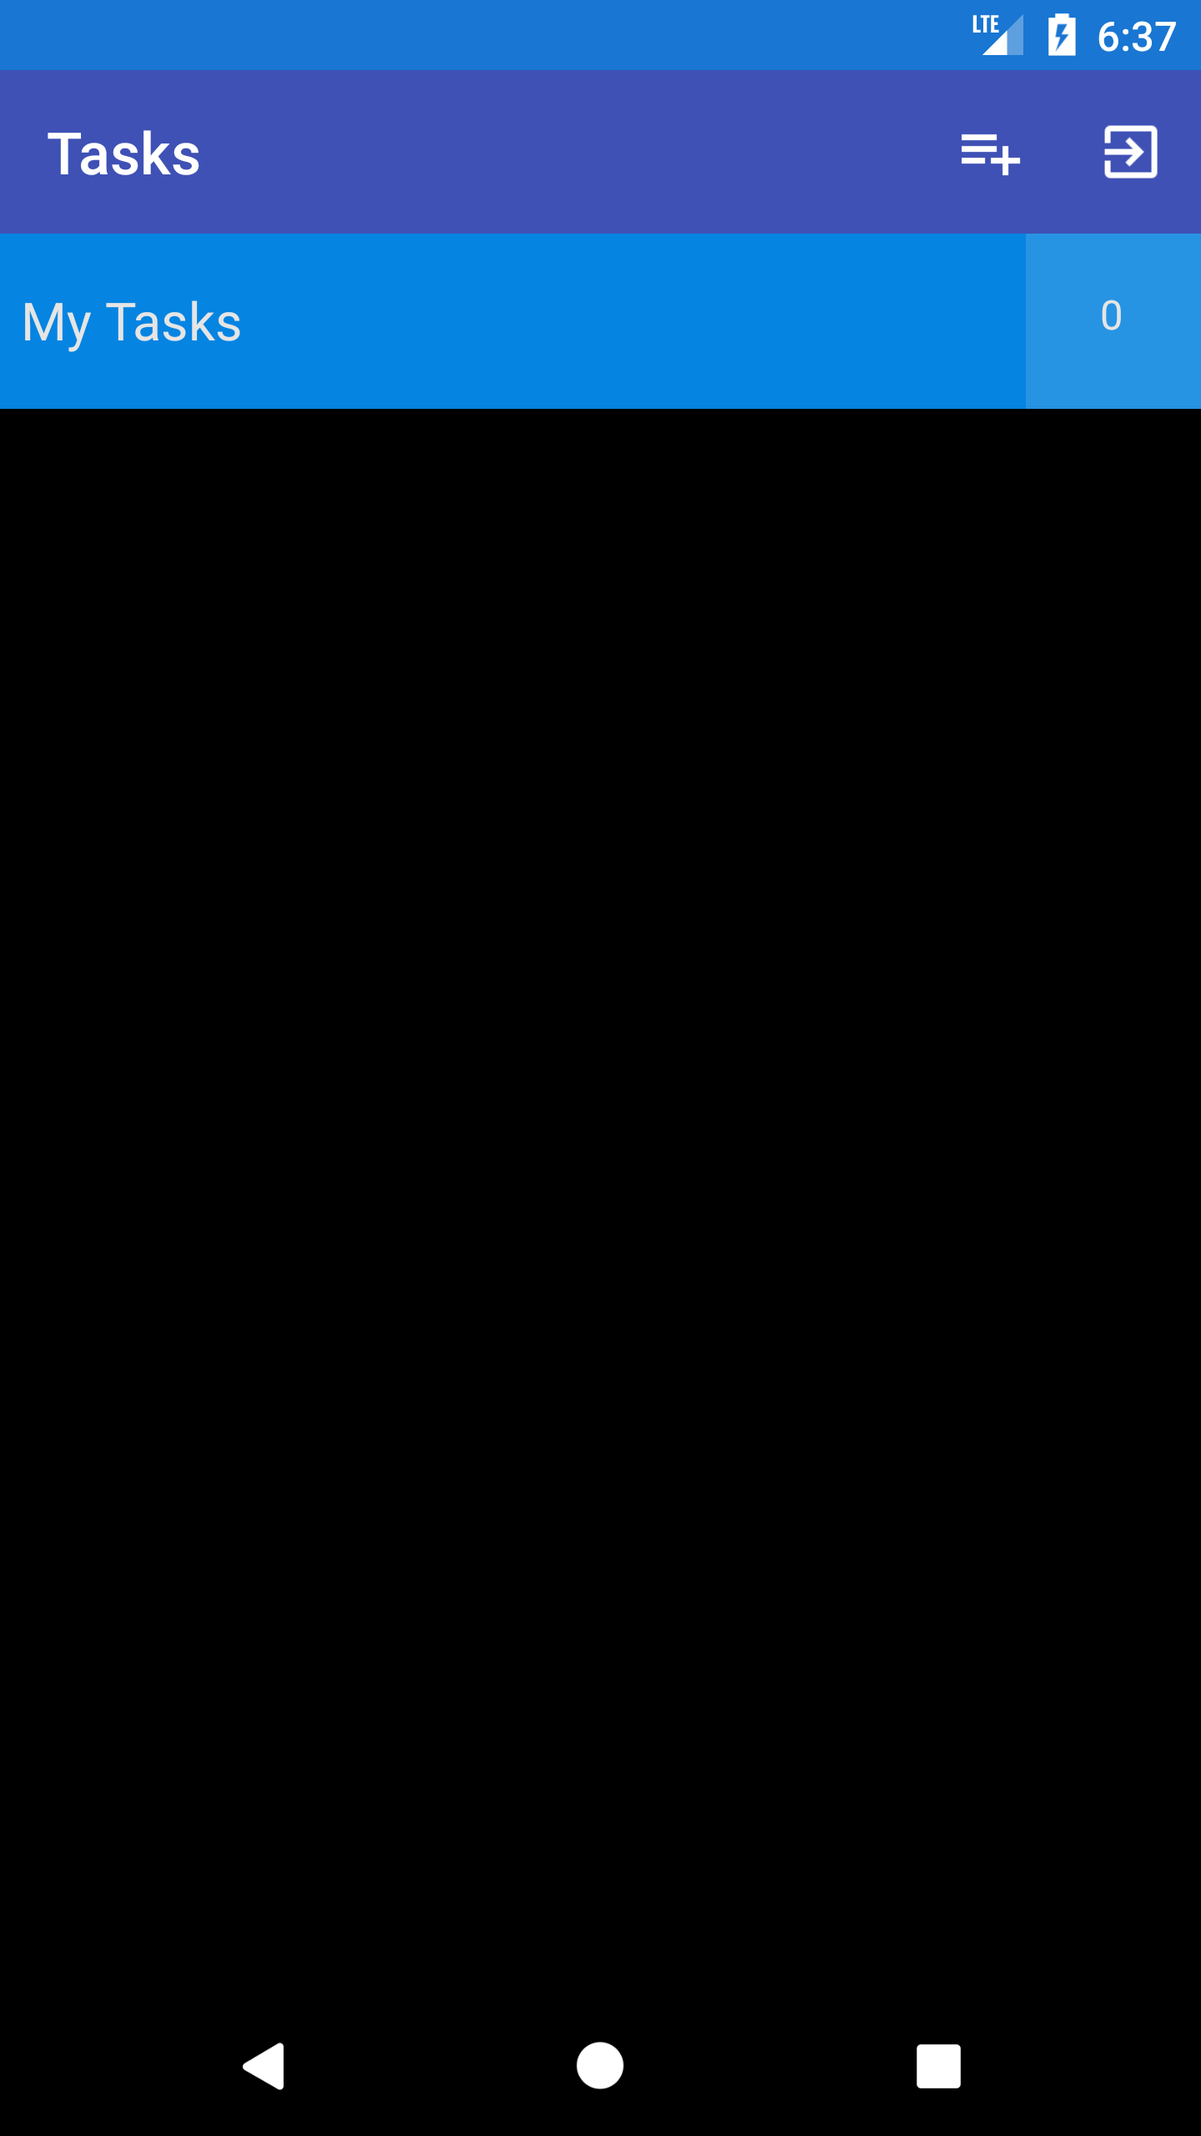
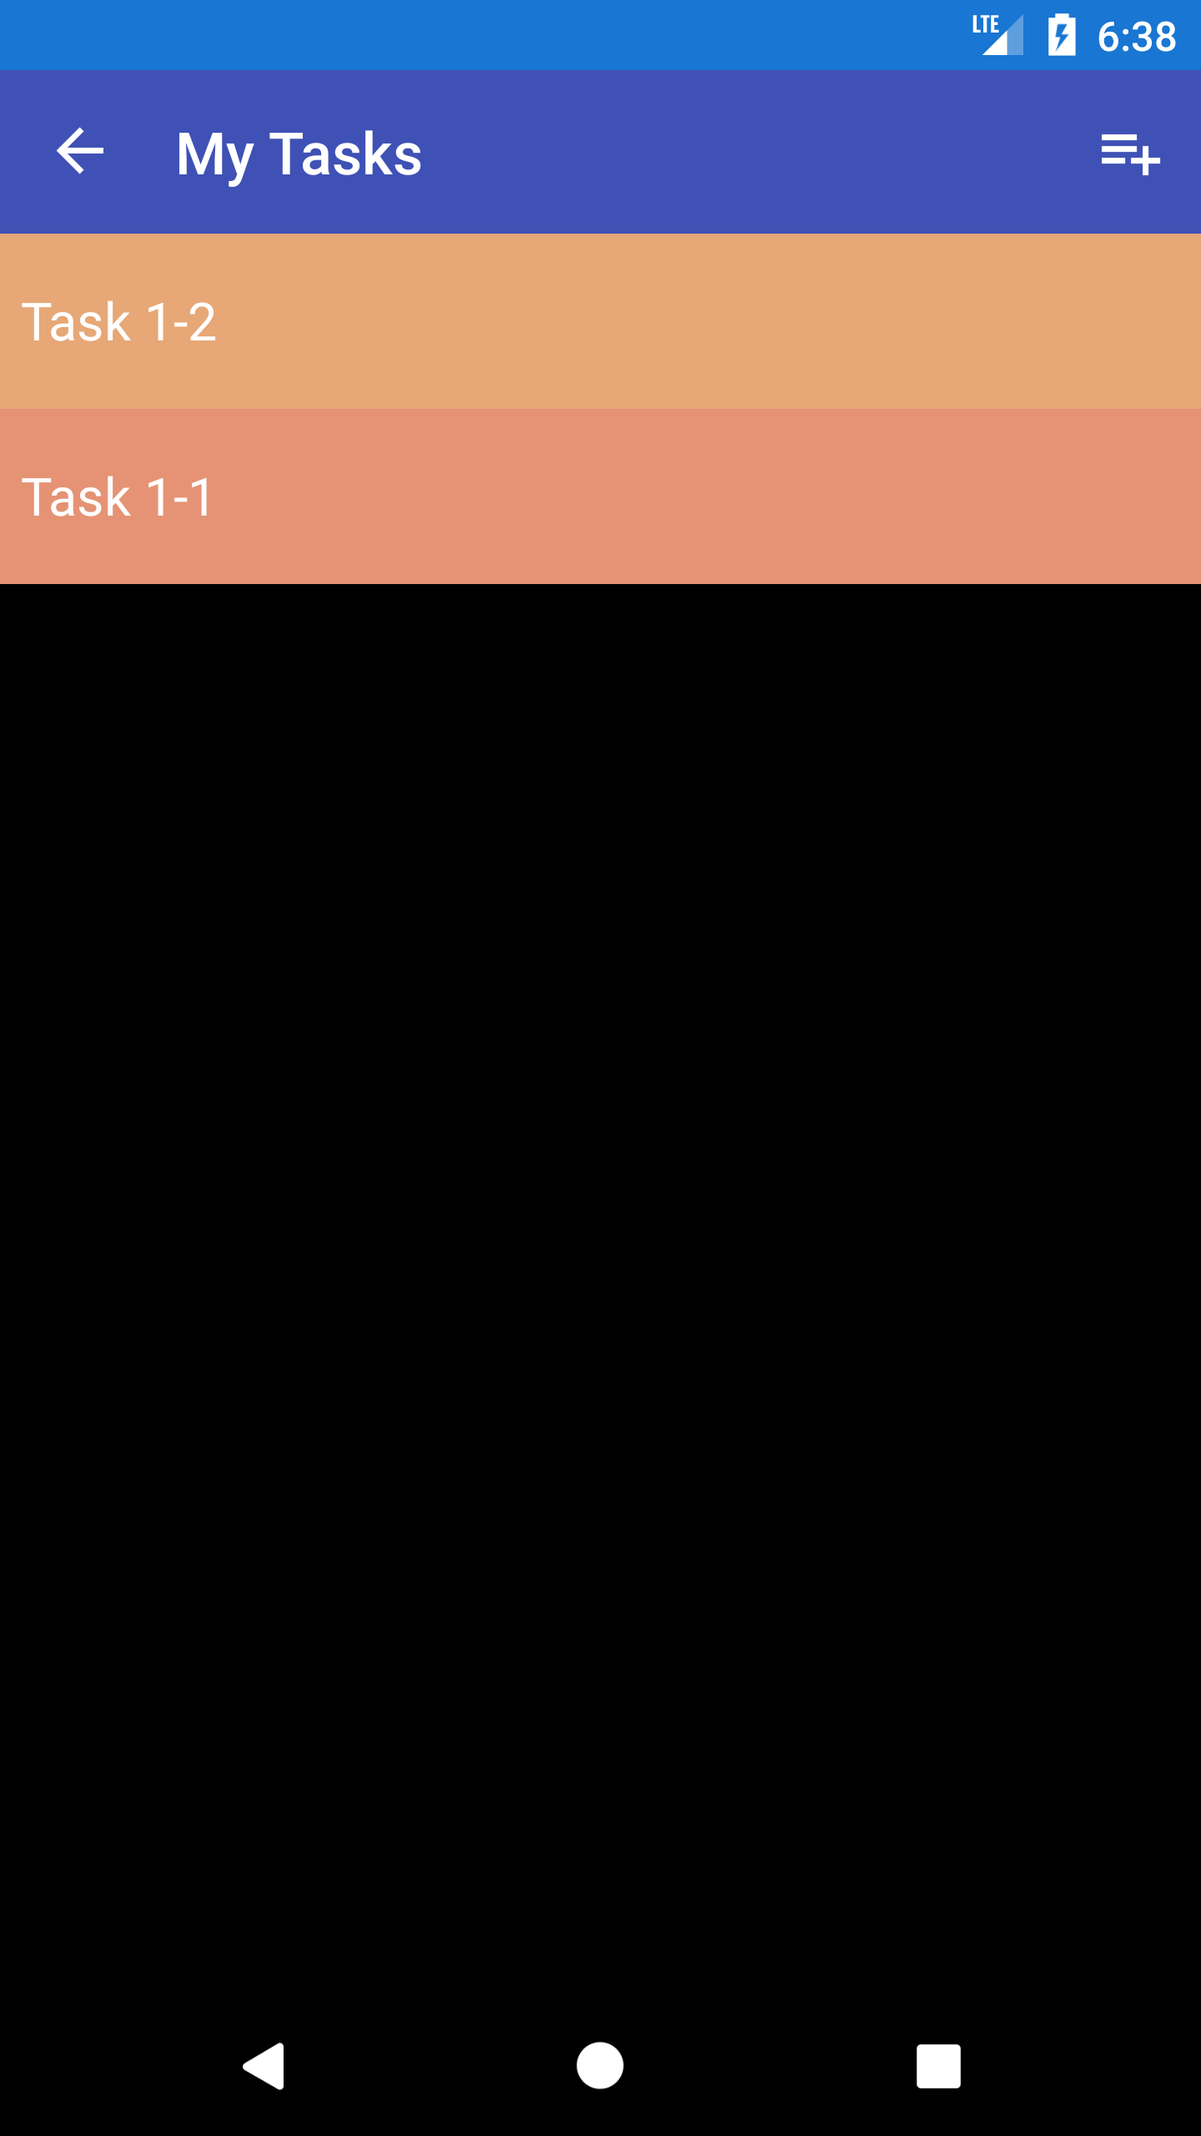
Update document and image

Changed region(s): [[0.0, 0.0625, 1.0, 0.2812]]

diff --git a/RealmTutorialSample/RealmTutorialSample/RealmTutorialSamplePage.xaml.cs b/RealmTutorialSample/RealmTutorialSample/RealmTutorialSamplePage.xaml.cs
@@ -105,9 +105,9 @@ namespace RealmTutorialSample
 
         private async void SetupRealmAsync()
         {
-            var username = ""; // 作成したユーザーを指定します。
-            var password = ""; // パスワード
-            var serverIp = "127.0.0.1:9080";
+            var username = "realm"; // 作成したユーザーを指定します。
+            var password = "realm"; // パスワード
+            var serverIp = (Device.RuntimePlatform == Device.Android) ? "10.0.2.2:9080" : "127.0.0.1:9080";
 
             User user = null;
             try

diff --git a/TutorialXamarin.md b/TutorialXamarin.md
@@ -1,107 +1,116 @@
-## Tutorial：Realm Mobile Platform にアクセスするアプリを Xamarin.Forms で作ろう
+## Tutorial：Realm Platform にアクセスするアプリを Xamarin.Forms で作ろう
 
-タスク管理の iOS アプリを作成する Realm Mobile Platform（レルム・モバイル・プラットフォーム） のチュートリアル「[Realm Mobile Platform iOS App Tutorial](https://realm.io/docs/tutorials/realmtasks/)」を Swift ではなく、C# で作ってみましょう。フレームワークには Xamarin.Forms を使用します。
+タスク管理の iOS アプリを作成する Realm Platform（レルム・モバイル・プラットフォーム） のチュートリアル「[Building Your First Realm Platform iOS App](https://realm.io/docs/tutorials/realmtasks/)」を Swift ではなく、C# で作ってみましょう。フレームワークには Xamarin.Forms を使用します。
 
-### Realm Mobile Platform とは
+### Realm Platform とは
 
-Realm Mobile Platform はローカルの Realm Mobile Database（通称 Realm）とサーバーサイドの Realm Object Server（レルム・オブジェクト・サーバー）を自動的に同期する仕組みを提供するサービスです。
+Realm Platform はローカルの Realm Mobile Database（通称 Realm）とサーバーサイドの Realm Object Server（レルム・オブジェクト・サーバー）を自動的に同期する仕組みを提供するサービスです。
 
 詳細は、[公式ページ](https://realm.io/jp/products/realm-mobile-platform/) をご覧ください。
 
-Realm Mobile Platform には Developer Edition があり、無料でオフラインファーストで自動同期の機能を備えたモバイルアプリを構築できます。有償の Professional Edition 以上では、サーバーサイドロジックを Node.js で構築したり、無制限の Realm Functions（いわゆる Azure Functions／AWS Lambda と同じような機能）が使えたりします。
+Realm Platform には Developer Edition があり、無料でオフラインファーストで自動同期の機能を備えたモバイルアプリを構築できます。有償の Professional Edition 以上では、サーバーサイドロジックを Node.js で構築したり、無制限の Realm Functions（いわゆる Azure Functions／AWS Lambda と同じような機能）が使えたりします。
 
-### Realm Mobile Platform のインストール
+### Realm Platform のインストール
 
-公式ドキュメントの [Getting Started with the Realm Mobile Platform](https://realm.io/docs/get-started/) を参照してください。
+公式ドキュメントの [Installing the Realm Platform](https://realm.io/docs/get-started/) を参照してください。
 
-macOS 用には、Realm Object Server が用意されていて[こちら](https://realm.io/docs/get-started/installation/mac/)からダウンロードできます。ダウンロード後、圧縮ファイルを任意の場所に展開し、コマンドを実行するだけで動作します。非常に簡単に導入できるため、macOS 版を使用することをお勧めします。
+本チュートリアルは macOS でのインストールを進めますが、Linux がある方は Linux にインストールしてアクセスしても良いでしょう。また、Windows 版は開発中のようです。期待しましょう。
 
-Linux がある方は Linux にインストールしてアクセスしても良いですし、docker で立てても良いかもしれないですね。
+> こっそり私の Azure 環境にハンズオンで Realm Object Server の環境が作れない方に使ってもらうためのインスタンスを用意しています。
 
-> こっそり私の Azure 環境にハンズオンで Realm Object Server の環境が作れない方に使ってもらうためのインスタンスと Docker コンテナはすでに立ててありますのでない方は仰ってください。
+Realm Object Server の展開が終了したら、任意のディレクトリで `ros start` コマンドを実行します。そのディレクトリ以下に Realm Object Server のインスタンスが立ち上がり、9080 番ポートのリスニングが開始されます。 
 
-### 事前準備
+```bash
+$ ros start
 
-事前準備として、Realm Object Server を起動し、データを登録する必要があります。
+info: Loaded feature token capabilities=[Sync], expires=Wed Apr 19 2017 23:15:29 GMT+0900 (JST)
+info: Realm Object Server version 2.0.16 is starting
+info: [sync] Realm sync server started ([realm-core-4.0.2], [realm-sync-2.1.0])
+info: [sync] Directory holding persistent state: /Users/ytabuchi/Documents/realm/ros/data/sync/user_data
+info: [sync] Operating mode: master_with_no_slave
+info: [sync] Listening on 127.0.0.1:59551 (sync protocol version 22)
+info: [http] 127.0.0.1 - GET /realms/files/%2F__wildcardpermissions HTTP/1.1 200 55 - 23.666 ms
+info: [http] 127.0.0.1 - GET /realms/files/%2F__password HTTP/1.1 200 44 - 12.780 ms
+info: Realm Object Server has started and is listening on http://0.0.0.0:9080
+info: [http] 127.0.0.1 - GET /realms/files/%2F__admin HTTP/1.1 200 41 - 1.474 ms
+info: [http] 127.0.0.1 - GET /realms/files/%2F__admin HTTP/1.1 200 41 - 2.113 ms
+```
 
-Realm Object Server の展開が終了したら、ルートディレクトリの `start-object-server.command` を実行します。
+初回起動時にメールアドレスを入力し、メールニュースに登録するか？を聞かれますので、YES を推しておきましょう。
 
-<img src="https://raw.githubusercontent.com/ytabuchi/RealmMobilePlatform/master/images/Realm0-01.png" width="600" />
+Realm Object Server の起動を確認したら次に進みます。
 
-ブラウザが起動し、ログイン画面が表示されます。Linux の場合はインストール時にサービス登録をしているので、`＜IPアドレス＞:9080` にアクセスします。
+### Realm Studio のインストール
 
-<img src="https://raw.githubusercontent.com/ytabuchi/RealmMobilePlatform/master/images/Realm0-02.png" width="600" />
+Realm Object Server 2.x から Node.js を使用したプロダクトに刷新され、Web のインターフェースは無くなりました。代わりに、以下の Realm Studio を使用します。Electron ベースのアプリで、Windows、macOS、Linux に対応しています。
 
-任意のメールアドレスとパスワードで Admin User を作成します。この時のユーザー名とパスワードを後で使用しますので、メモしておきましょう。ログインすると Dashboard や存在する Realm Database、User などが閲覧できます。
+[Realm Studio: open, edit, and manage your Realm data](https://realm.io/jp/products/realm-studio/)
 
-<img src="https://raw.githubusercontent.com/ytabuchi/RealmMobilePlatform/master/images/Realm0-03.png" width="600" />
+ダウンロード後、インストールして Realm Studio を起動します。
 
-Realm Object Server の起動を確認したらデータを登録します。
+<img src="https://raw.githubusercontent.com/ytabuchi/RealmMobilePlatform/master/images/Realm0-01.png" width="300" />
 
-#### macOS の場合
+「Connect to Realm Object Server」をクリックし、そのまま「Connect」をクリックします。
 
-`＜ルートディレクトリ＞/demo/RealmTasks/RealmTasks.app` を起動します。
+<img src="https://raw.githubusercontent.com/ytabuchi/RealmMobilePlatform/master/images/Realm0-02.png" width="300" />
+
+「Users」タブを開き、「Create new user」ボタンをクリックし、
+
+<img src="https://raw.githubusercontent.com/ytabuchi/RealmMobilePlatform/master/images/Realm0-03.png" width="450" />
+
+任意のユーザーを作成します。
 
 <img src="https://raw.githubusercontent.com/ytabuchi/RealmMobilePlatform/master/images/Realm0-04.png" width="450" />
 
-
-先ほど作成したユーザーでログインします。ログイン後、右上の「＋」ボタンからタスクを登録します。
+ユーザーが作成されていることを確認してください。
 
 <img src="https://raw.githubusercontent.com/ytabuchi/RealmMobilePlatform/master/images/Realm0-05.png" width="450" />
 
-事前準備は以上です。
+ユーザーが作成できたら次に進みます。
 
-#### Windows の場合
+### 事前準備
 
-Windows の場合は事前にビルドされたアプリが存在しないため、自前でビルドする必要があります。そのため、macOS と同じく[こちら](https://realm.io/docs/get-started/installation/mac/)から macOS Bundle をダウンロードします。ダウンロードした zip ファイルを「右クリック＞プロパティ」を選択し、「ブロックの解除」にチェックして「OK」をクリックします。
+本チュートリアルのアプリが Realm Object Server にアクセスするために、データが格納されている必要があります。そのため、最初にサンプルアプリのソースコードをダウンロードします。
+
+[realm-demos/realm-tasks: To Do app built with Realm, inspired by Clear for iOS](https://github.com/realm-demos/realm-tasks) にアクセスし、右側の「Clone or Download＞Download Zip」をクリックします。
+
+<img src="https://raw.githubusercontent.com/ytabuchi/RealmMobilePlatform/master/images/Realm0-06.png" width="600" />
+
+Windows の場合はダウンロードした zip ファイルを「右クリック＞プロパティ」を選択し、「ブロックの解除」にチェックして「OK」をクリックします。
+
+zip ファイルを展開し、`RealmTasks Xamarin` フォルダ内の `RealmTasks.sln` をダブルクリックして Visual Studio for Mac／Visual Studio を起動します。
+
+Windows の場合はソリューションを右クリックして、「NuGet パッケージの復元」を行います。
+
+<img src="https://raw.githubusercontent.com/ytabuchi/RealmMobilePlatform/master/images/Realm0-07.png" width="300" />
+
+
+「RealmTask.Droid」プロジェクトを右クリックして、「スタートアッププロジェクトに設定」を選択します。macOS の場合は「RealmTask.iOS」でも構いません。
 
 <img src="https://raw.githubusercontent.com/ytabuchi/RealmMobilePlatform/master/images/Realm0-08.png" width="300" />
-
-
-zip ファイル内の`demo\RealmTasks\RealmTasks Xamarin` フォルダを展開します。
-
-展開されたフォルダ内の `RealmTasks.sln` をダブルクリックして Visual Studio を起動します。
-
-ソリューションを右クリックして、「NuGet パッケージの復元」を行います。
-
+<br />
 <img src="https://raw.githubusercontent.com/ytabuchi/RealmMobilePlatform/master/images/Realm0-09.png" width="300" />
-
-
-「RealmTask.Droid」プロジェクトを右クリックして、「スタートアッププロジェクトに設定」を選択します。
-
-<img src="https://raw.githubusercontent.com/ytabuchi/RealmMobilePlatform/master/images/Realm0-10.png" width="300" />
 
 
 > エミュレーターへの配置がオンになっていない可能性がありますので、Visual Studio のメニューから「ビルド＞構成マネージャー」から構成マネージャーを開き、Android プロジェクトの「配置」にチェックを入れてください。
 
-<img src="https://raw.githubusercontent.com/ytabuchi/RealmMobilePlatform/master/images/Realm0-11.png" width="450" />
+<img src="https://raw.githubusercontent.com/ytabuchi/RealmMobilePlatform/master/images/Realm0-10.png" width="450" />
 
 適切なエミュレーターまたはデバイスを選択し、「▶」ボタンでデバッグを開始します。
 
 アプリが起動したら適切な IP アドレスとポート番号に変更し、ユーザー名、パスワードでログインします。
 
-<img src="https://raw.githubusercontent.com/ytabuchi/RealmMobilePlatform/master/images/Realm0-12.png" width="300" />
+<img src="https://raw.githubusercontent.com/ytabuchi/RealmMobilePlatform/master/images/Realm0-11.png" width="300" />
 
 ログイン後、「My Tasks」の右側の数字の「0」をタップします。
 
-<img src="https://raw.githubusercontent.com/ytabuchi/RealmMobilePlatform/master/images/Realm0-13.png" width="300" />
+<img src="https://raw.githubusercontent.com/ytabuchi/RealmMobilePlatform/master/images/Realm0-12.png" width="300" />
 
 Task 入力欄で右上の＋ボタンからタスクをいくつか入力します。
 
-<img src="https://raw.githubusercontent.com/ytabuchi/RealmMobilePlatform/master/images/Realm0-14.png" width="300" />
+<img src="https://raw.githubusercontent.com/ytabuchi/RealmMobilePlatform/master/images/Realm0-13.png" width="300" />
 
-Windows 側の事前準備作業は少し長いですが以上です。
-
-#### データ作成後
-
-ブラウザの Realm タブを開き、Path 欄の `xxxxxx/realmtasks` をクリックします。
-
-<img src="https://raw.githubusercontent.com/ytabuchi/RealmMobilePlatform/master/images/Realm0-06.png" width="600" />
-
-事前準備で登録したタスクが正しく反映されていることが分かります。
-
-<img src="https://raw.githubusercontent.com/ytabuchi/RealmMobilePlatform/master/images/Realm0-07.png" width="600" />
-
+事前準備作業は少し長いですが以上です。
 
 ### Xamarin.Forms プロジェクトを作成
 
@@ -140,7 +149,7 @@ NuGet パッケージをインストールします。
 
 macOS では、iOS／Android のプロジェクトを右クリックして、「追加＞NuGet パッケージの追加」でパッケージマネージャーを起動します。Windows ではソリューションを右クリックして、「ソリューションの NuGet パッケージの管理」でパッケージマネージャーを起動します。
 
-「Realm」で検索して、最新版の「Realm」（2017/09/28 時点では 1.6.0）をインストールします。
+「Realm」で検索して、最新版の「Realm」（2017/11/13 時点では 2.0.0）をインストールします。
 
 <img src="https://raw.githubusercontent.com/ytabuchi/RealmMobilePlatform/master/images/Realm2-01.png" width="450" />
 
@@ -371,7 +380,7 @@ namespace RealmTutorialSample.iOS
 }
 ```
 
-AddAsync ボタンが押された時に return を返したかったので、[@amay077](https://twitter.com/amay077) さんの [UIAlertController を async/await 対応させて便利に使う \- Qiita](http://qiita.com/amay077/items/0a3fa3dfac7f29a2807d) を参考にしました。
+AddAsync ボタンが押された時に return を返したかったので、[@amay077](https://twitter.com/amay077) さんの [UIAlertController を async/await 対応させて便利に使う - Qiita](http://qiita.com/amay077/items/0a3fa3dfac7f29a2807d) を参考にしました。
 
 Dependency Services のコード内では PresentViewController は `UIApplication.SharedApplication.KeyWindow.RootViewController.PresentViewController` でアクセスできます。
 
@@ -412,7 +421,7 @@ namespace RealmTutorialSample.Droid
             textDialog.SetTitle(title);
             textDialog.SetMessage(message);
             textDialog.SetView(editText);
-            textDialog.SetNegativeButton("Add", (sender, e) =>
+            textDialog.SetPositiveButton("Add", (sender, e) =>
             {
                 comp.SetResult(editText.Text);
             });
@@ -469,7 +478,7 @@ Realm _realm;
 IDisposable _notificationToken;
 ```
 
-`AddAsync` メソッドの下に `SetupRealmAsync` メソッドを追加します。サンプルのソースコードでは、`.gitignore` に指定して公開されないようにした `Secrets.cs` に情報を記載しています。
+`AddAsync` メソッドの下に `SetupRealmAsync` メソッドを追加します。
 
 ```csharp
 private async void SetupRealmAsync()
@@ -541,16 +550,15 @@ private async void SetupRealmAsync()
 private void UpdateList()
 {
     if (_realm.All<TaskList>().FirstOrDefault() != null)
-    {
         _items = _realm.All<TaskList>().FirstOrDefault().Items;
-        this.BindingContext = _items;
-    }
+    
+    this.BindingContext = _items;
 }
 ```
 
 再度 `SetupRealmAsync` メソッドに戻り、処理を追加していきます。
 
-`user` が取得できていれば、先ほど作成した `UpdateList` メソッドを呼び出します。その後、Realm Object Server 側で変更があった際に発行される `notificationToken` を受け取った際の処理 `SubscribeForNotifications` 内でも `UpdateList` メソッドを呼び出します。`SetupRealmAsync` メソッドの最後に以下のコードを追加します。
+`user` が取得できていれば、先ほど作成した `UpdateList` メソッドを呼び出します。その後、Realm Object Server 側で変更があった際に発火される `notificationToken` を受け取った際の処理 `SubscribeForNotifications` 内でも `UpdateList` メソッドを呼び出します。`SetupRealmAsync` メソッドの最後に以下のコードを追加します。
 
 ```csharp
 if (user != null)
